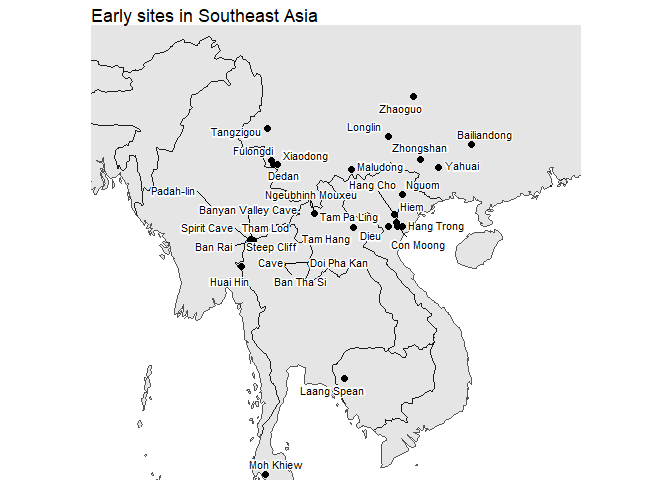
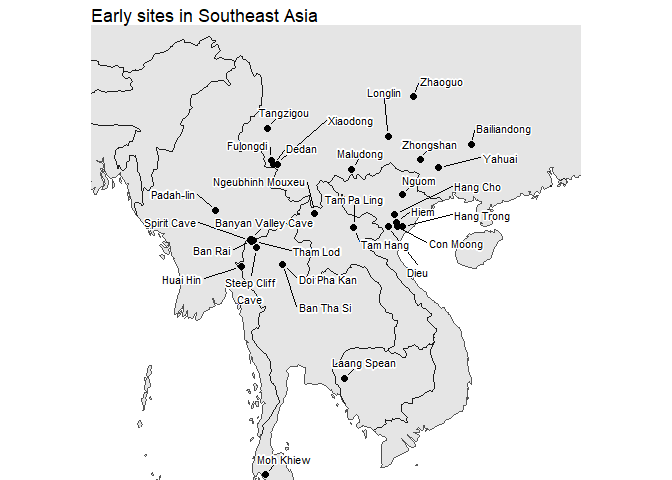
Adjusted the map site labels to ensure site locations are visible

diff --git a/README.md b/README.md
@@ -846,8 +846,13 @@ sea_map <- ggplot(world) +
            expand = FALSE) +
   geom_text_repel(data = sites_sf,
                   aes(x = long, y = lat, label = Site),
-                  max.overlaps = 20,
+                  max.overlaps = Inf,
                   size = 3, 
+                  nudge_x = 0.5,
+                  force = 10,
+                  point.padding = 0.5,
+                  box.padding = 0.5,
+                  min.segment.length = 0,
                   bg.color = "white",
                   bg.r = 0.15) +
   theme_void() +
